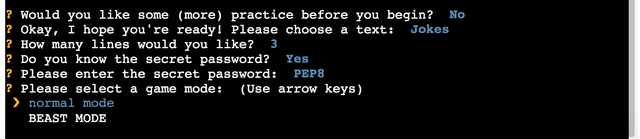
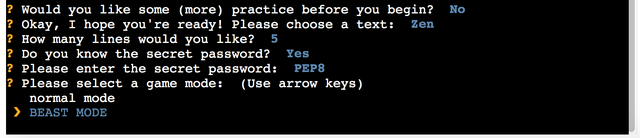
DOCS: Upload screenshots of Beast Mode to README

Changed region(s): [[0.0, 0.029, 0.75, 0.8986], [0.0, 0.9565, 1.0, 1.0]]

diff --git a/README.md b/README.md
@@ -53,6 +53,8 @@ Having selected both a text and the number of lines to be typed, the user is nex
   - If they enter a correct password, meanwhile, they unlock a bonus submenu offering the chance to acticate the 'Beast Mode' feature (explained in more detail below).
 
   ![How to play screenshot 7](docs/images/screenshots/how-to-play/how-to-play-7.png)
+
+  ![How to play screenshot 8](docs/images/screenshots/how-to-play/how-to-play-8.png)
 </details>
 
 ## Features
@@ -162,28 +164,59 @@ Having selected both a text and the number of lines to be typed, the user is nex
 ![ASCII art computer](docs/images/ascii-art-computer.jpg)
 
 - #### Add dynamic 'High Score' user feedback functionality
+  <details>
+    <summary>
+    click to view
+    </summary>
 
   Given more time, an additional UX feature I would like to have included to boost gamification is a way of storing and updating their current high score (in wpm) in memory. This could be implemented by using conditional logic (attached to a class method) and writing the high score to a project `.txt` file. A good example can be found in [this video tutorial](https://www.youtube.com/watch?v=h0q1Quyb1mU)
+    </details>
 
 - #### Follow-up email feature Ask user to enter email and send them a breakdown of their typing speed/accuracy (via smtplib module)?
+  <details>
+    <summary>
+    click to view
+    </summary>
 
   Another way to keep the user hooked and ensure they return to the application would be if they received a summary breakdown of their performance (average typing speed, accuracy, high score etc.) after they have exited the programme. This would probably be a good use case for the [`smtplib` module](https://docs.python.org/3/library/smtplib.html)
+    </details>
 
 - #### Social media integration
+  <details>
+      <summary>
+      click to view
+      </summary>
 
-  Allowing users to share their new high score (see above) etc. via social media would be a great way to publicise the app and start growing a community of TZOT users. The actively maintained [twython module](https://pypi.org/project/twython/) looks like it would be ideal for this purpose, Twitter being the channel that arguably lends itself best to this type of functionality. There's even scope for [uploading an image as part of a status update](https://twython.readthedocs.io/en/latest/usage/advanced_usage.html#updating-status-with-image), which would be useful for sharing in-game screenshots with the world at large. 
+  Allowing users to share their new high score (see above) etc. via social media would be a great way to publicise the app and start growing a community of TZOT users. The actively maintained [twython module](https://pypi.org/project/twython/) looks like it would be ideal for this purpose, Twitter being the channel that arguably lends itself best to this type of functionality. There's even scope for [uploading an image as part of a status update](https://twython.readthedocs.io/en/latest/usage/advanced_usage.html#updating-status-with-image), which would be useful for sharing in-game screenshots with the world at large.
+      </details>
 
 - #### Real-time user feedback
+  <details>
+    <summary>
+    click to view
+    </summary>
 
   At present, users are only able to get an indication of how quickly and accurately they are typing _after_ they have completed a typing task (i.e. as soon as they press Enter at the end of a target text, they are given a results breakdown). A more dynamic means of providing user feedback would be to have a running timer situated somewhere in the UI, as well as displaying a 'live' words-per-minute calculation. Going further, incorrectly-typed text could also be highlighted in real time so that the user would be able to go back and correct mistake(s) (cf. [this example](https://mithil467.github.io/mitype/)). On reflection, it's likely that this functionality would have required quite extensive refactoring, and so a decision was made to leave it out of this initial app version.
+    </details>
 
 - #### Add margin/padding to mock terminal output
+  <details>
+    <summary>
+    click to view
+    </summary>
 
   From a cosmetic standpoint, terminal text by default is not particularly pleasing to the eye. Part of the reason for this is the lack of layout and spacing options, which can often lead to things looking quite bunched and difficult to read. With this in mind, it would be nice to be able to add some extra spacing between the left and right borders of the mock terminal and the text output (chiefly the target text and/or user input) in order to improve readability and overall appearance (cf. [this blog post](https://stackabuse.com/padding-strings-in-python/)).
+    </details>
 
 - #### Bind secret password reveal functionality not just to typing speed, but also to accuracy
+  <details>
+    <summary>
+    click to view
+    </summary>
 
-  At the time of writing, the user is rewarded via the application's incremental secret password reveal functionality based solely on typing **speed**. More specifically, they are shown the first character of this password when they record a speed of 20 words per minute, the second when they reach 30 wpm, the third at 40 wpm and the fourth and final character once they achieve a speed of 50 wpm. However, this happens irrespective of typing **accuracy** - theoretically, a user could therefore speed-type gibberish (i.e. record an extremely low accuracy rate) and still manage to unlock the password and access Beast Mode. This could be prevented using more sophisticated and nuanced conditional logic, and is something the developer intends to implement in future revisions of the app.
+At the time of writing, the user is rewarded via the application's incremental secret password reveal functionality based solely on typing **speed**. More specifically, they are shown the first character of this password when they record a speed of 20 words per minute, the second when they reach 30 wpm, the third at 40 wpm and the fourth and final character once they achieve a speed of 50 wpm. However, this happens irrespective of typing **accuracy** - theoretically, a user could therefore speed-type gibberish (i.e. record an extremely low accuracy rate) and still manage to unlock the password and access Beast Mode. This could be prevented using more sophisticated and nuanced conditional logic, and is something the developer intends to implement in future revisions of the app.
+    </details>
+
   </details>
 
 ## Technologies Used
@@ -245,6 +278,8 @@ Having selected both a text and the number of lines to be typed, the user is nex
 
 A `TypingText` class has been used as the main application model.
 
+![data model screenshot](docs/images/screenshots/init.png)
+
 This class's `__init__` state initialisation method creates properties to store the following app-related information:
 
 - game mode: By default, the class's **`beast`** property is set to `False`. What this means is that the game's Beast Mode (which involves the user having to type target text lines backwards) has not been enabled, and so the normal mode of standard text display is in effect.
@@ -268,11 +303,6 @@ It was not deemed necessary to create any instances of this class, as the game f
 </details>
 
 ## Testing
-
-<details>
-  <summary>
-    click to view
-  </summary>
 
 ### Bugs:
   <details>
@@ -301,8 +331,6 @@ Valentin Bryukhanov's [online validation tool](http://pep8online.com/) was used 
 
 ![Python validation icon](docs/images/icons/icon-python-validation.png)
       </details>
-
-</details>
 
 ## Deployment
 
